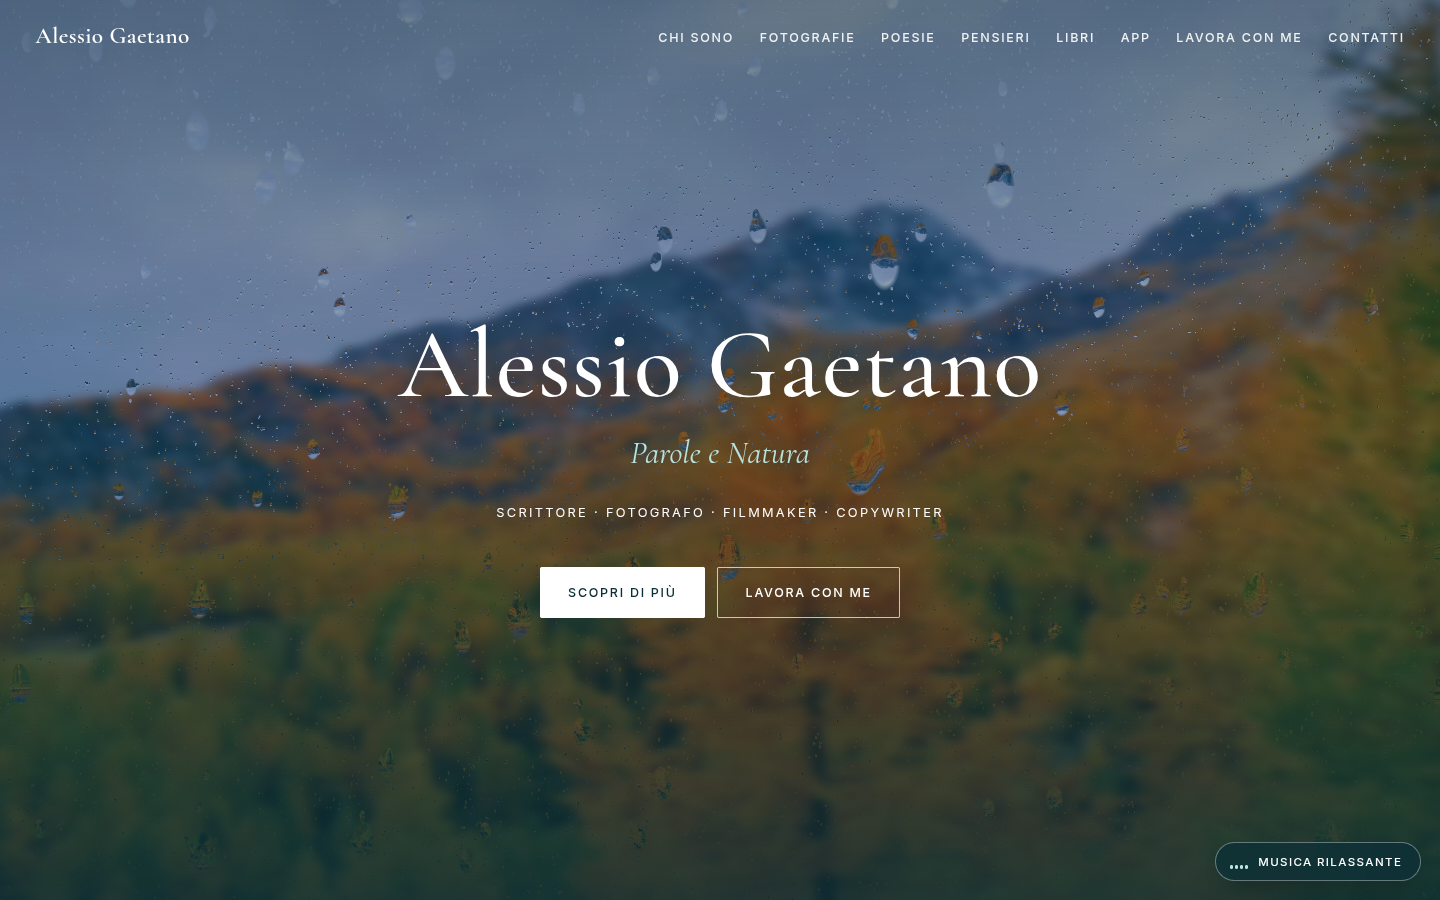
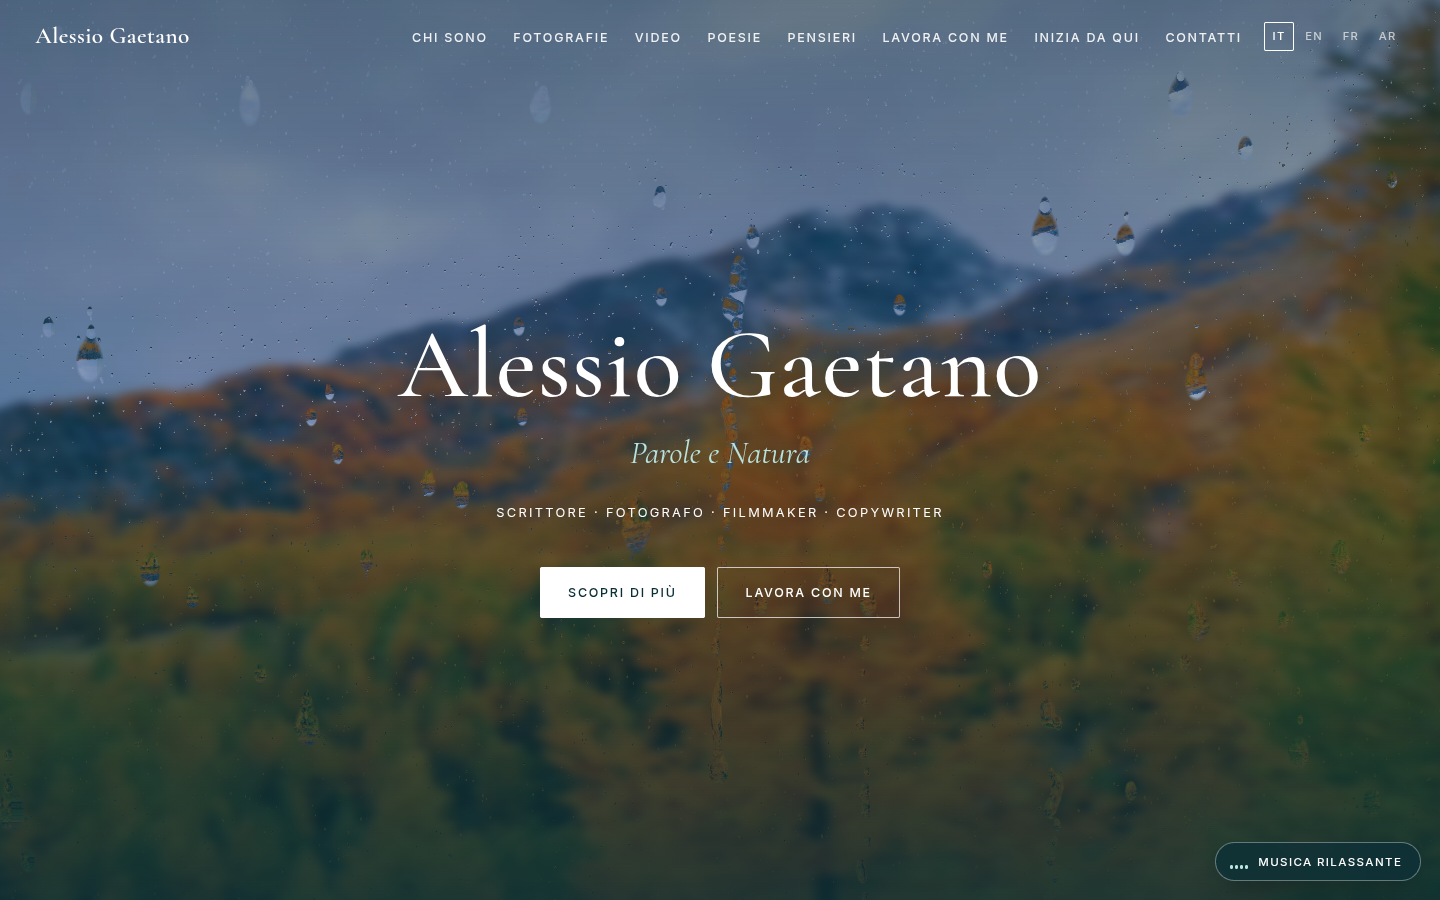
Google Search Console verification

diff --git a/ar/index.html b/ar/index.html
@@ -2,7 +2,7 @@
 <title>أليسيو غايتانو – كاتب ومصوّر وصانع أفلام وكاتب إعلانات</title><meta name="description" content="أليسيو غايتانو: كلمات وطبيعة. كاتب ومصوّر وصانع أفلام وكاتب إعلانات. صور وفيديوهات وقصائد وأفكار وكتب ونصائح وتواصل.">
 <link rel="canonical" href="https://alegauren-creator.github.io/sito/ar/"><link rel="alternate" hreflang="it" href="https://alegauren-creator.github.io/sito/"><link rel="alternate" hreflang="en" href="https://alegauren-creator.github.io/sito/en/"><link rel="alternate" hreflang="fr" href="https://alegauren-creator.github.io/sito/fr/"><link rel="alternate" hreflang="ar" href="https://alegauren-creator.github.io/sito/ar/"><link rel="alternate" hreflang="x-default" href="https://alegauren-creator.github.io/sito/"><link rel="icon" href="../favicon.svg" type="image/svg+xml">
 <meta property="og:type" content="website"><meta property="og:url" content="https://alegauren-creator.github.io/sito/ar/"><meta property="og:title" content="Alessio Gaetano – كلمات وطبيعة"><meta property="og:description" content="كاتب ومصوّر وصانع أفلام وكاتب إعلانات."><meta property="og:image" content="https://alegauren-creator.github.io/sito/og.jpg"><meta property="og:locale" content="ar_AR"><meta name="twitter:card" content="summary_large_image">
-<!-- google-site-verification: incolla qui il meta tag di Google Search Console -->
+<meta name="google-site-verification" content="P_0KU-tFi58tV74n-cSzLczwnLbSxpIiYvnmhs9SNok" />
 <script type="application/ld+json">{"@context": "https://schema.org", "@type": "Person", "name": "Alessio Gaetano", "jobTitle": "كاتب ومصوّر وصانع أفلام وكاتب إعلانات", "url": "https://alegauren-creator.github.io/sito/ar/", "image": "https://alegauren-creator.github.io/sito/og.jpg", "email": "mailto:aleg.auren@gmail.com", "sameAs": ["https://www.tiktok.com/@a_g.auren", "https://ko-fi.com/alessio_g"], "knowsLanguage": ["it", "en", "fr"]}</script><script type="application/ld+json">{"@context": "https://schema.org", "@type": "WebSite", "name": "Alessio Gaetano – كلمات وطبيعة", "url": "https://alegauren-creator.github.io/sito/ar/", "inLanguage": "ar"}</script>
 <link rel="stylesheet" href="../fonts/fonts.css"><link rel="stylesheet" href="../style.css?v=7">
 <script>window.SITE_BASE="../";window.SITE_LANG="ar";</script></head><body>

diff --git a/fr/index.html b/fr/index.html
@@ -2,7 +2,7 @@
 <title>Alessio Gaetano – Écrivain, photographe, vidéaste et rédacteur</title><meta name="description" content="Alessio Gaetano : Mots et Nature. Écrivain, photographe, vidéaste et rédacteur. Photographies, vidéos, poèmes, pensées, livres, conseils et contacts.">
 <link rel="canonical" href="https://alegauren-creator.github.io/sito/fr/"><link rel="alternate" hreflang="it" href="https://alegauren-creator.github.io/sito/"><link rel="alternate" hreflang="en" href="https://alegauren-creator.github.io/sito/en/"><link rel="alternate" hreflang="fr" href="https://alegauren-creator.github.io/sito/fr/"><link rel="alternate" hreflang="ar" href="https://alegauren-creator.github.io/sito/ar/"><link rel="alternate" hreflang="x-default" href="https://alegauren-creator.github.io/sito/"><link rel="icon" href="../favicon.svg" type="image/svg+xml">
 <meta property="og:type" content="website"><meta property="og:url" content="https://alegauren-creator.github.io/sito/fr/"><meta property="og:title" content="Alessio Gaetano – Mots et Nature"><meta property="og:description" content="Écrivain, photographe, vidéaste et rédacteur."><meta property="og:image" content="https://alegauren-creator.github.io/sito/og.jpg"><meta property="og:locale" content="fr_FR"><meta name="twitter:card" content="summary_large_image">
-<!-- google-site-verification: incolla qui il meta tag di Google Search Console -->
+<meta name="google-site-verification" content="P_0KU-tFi58tV74n-cSzLczwnLbSxpIiYvnmhs9SNok" />
 <script type="application/ld+json">{"@context": "https://schema.org", "@type": "Person", "name": "Alessio Gaetano", "jobTitle": "Écrivain, photographe, vidéaste et rédacteur", "url": "https://alegauren-creator.github.io/sito/fr/", "image": "https://alegauren-creator.github.io/sito/og.jpg", "email": "mailto:aleg.auren@gmail.com", "sameAs": ["https://www.tiktok.com/@a_g.auren", "https://ko-fi.com/alessio_g"], "knowsLanguage": ["it", "en", "fr"]}</script><script type="application/ld+json">{"@context": "https://schema.org", "@type": "WebSite", "name": "Alessio Gaetano – Mots et Nature", "url": "https://alegauren-creator.github.io/sito/fr/", "inLanguage": "fr"}</script>
 <link rel="stylesheet" href="../fonts/fonts.css"><link rel="stylesheet" href="../style.css?v=7">
 <script>window.SITE_BASE="../";window.SITE_LANG="fr";</script></head><body>

diff --git a/en/index.html b/en/index.html
@@ -2,7 +2,7 @@
 <title>Alessio Gaetano – Writer, photographer, filmmaker and copywriter</title><meta name="description" content="Alessio Gaetano: Words and Nature. Writer, photographer, filmmaker and copywriter. Photographs, videos, poems, thoughts, books, advice and contacts.">
 <link rel="canonical" href="https://alegauren-creator.github.io/sito/en/"><link rel="alternate" hreflang="it" href="https://alegauren-creator.github.io/sito/"><link rel="alternate" hreflang="en" href="https://alegauren-creator.github.io/sito/en/"><link rel="alternate" hreflang="fr" href="https://alegauren-creator.github.io/sito/fr/"><link rel="alternate" hreflang="ar" href="https://alegauren-creator.github.io/sito/ar/"><link rel="alternate" hreflang="x-default" href="https://alegauren-creator.github.io/sito/"><link rel="icon" href="../favicon.svg" type="image/svg+xml">
 <meta property="og:type" content="website"><meta property="og:url" content="https://alegauren-creator.github.io/sito/en/"><meta property="og:title" content="Alessio Gaetano – Words and Nature"><meta property="og:description" content="Writer, photographer, filmmaker and copywriter."><meta property="og:image" content="https://alegauren-creator.github.io/sito/og.jpg"><meta property="og:locale" content="en_US"><meta name="twitter:card" content="summary_large_image">
-<!-- google-site-verification: incolla qui il meta tag di Google Search Console -->
+<meta name="google-site-verification" content="P_0KU-tFi58tV74n-cSzLczwnLbSxpIiYvnmhs9SNok" />
 <script type="application/ld+json">{"@context": "https://schema.org", "@type": "Person", "name": "Alessio Gaetano", "jobTitle": "Writer, photographer, filmmaker and copywriter", "url": "https://alegauren-creator.github.io/sito/en/", "image": "https://alegauren-creator.github.io/sito/og.jpg", "email": "mailto:aleg.auren@gmail.com", "sameAs": ["https://www.tiktok.com/@a_g.auren", "https://ko-fi.com/alessio_g"], "knowsLanguage": ["it", "en", "fr"]}</script><script type="application/ld+json">{"@context": "https://schema.org", "@type": "WebSite", "name": "Alessio Gaetano – Words and Nature", "url": "https://alegauren-creator.github.io/sito/en/", "inLanguage": "en"}</script>
 <link rel="stylesheet" href="../fonts/fonts.css"><link rel="stylesheet" href="../style.css?v=7">
 <script>window.SITE_BASE="../";window.SITE_LANG="en";</script></head><body>

diff --git a/index.html b/index.html
@@ -2,7 +2,7 @@
 <title>Alessio Gaetano – Scrittore, fotografo, filmmaker e copywriter</title><meta name="description" content="Alessio Gaetano: Parole e Natura. Scrittore, fotografo, filmmaker e copywriter. Fotografie, video, poesie, pensieri, libri, consigli e contatti.">
 <link rel="canonical" href="https://alegauren-creator.github.io/sito/"><link rel="alternate" hreflang="it" href="https://alegauren-creator.github.io/sito/"><link rel="alternate" hreflang="en" href="https://alegauren-creator.github.io/sito/en/"><link rel="alternate" hreflang="fr" href="https://alegauren-creator.github.io/sito/fr/"><link rel="alternate" hreflang="ar" href="https://alegauren-creator.github.io/sito/ar/"><link rel="alternate" hreflang="x-default" href="https://alegauren-creator.github.io/sito/"><link rel="icon" href="favicon.svg" type="image/svg+xml">
 <meta property="og:type" content="website"><meta property="og:url" content="https://alegauren-creator.github.io/sito/"><meta property="og:title" content="Alessio Gaetano – Parole e Natura"><meta property="og:description" content="Scrittore, fotografo, filmmaker e copywriter."><meta property="og:image" content="https://alegauren-creator.github.io/sito/og.jpg"><meta property="og:locale" content="it_IT"><meta name="twitter:card" content="summary_large_image">
-<!-- google-site-verification: incolla qui il meta tag di Google Search Console -->
+<meta name="google-site-verification" content="P_0KU-tFi58tV74n-cSzLczwnLbSxpIiYvnmhs9SNok" />
 <script type="application/ld+json">{"@context": "https://schema.org", "@type": "Person", "name": "Alessio Gaetano", "jobTitle": "Scrittore, fotografo, filmmaker e copywriter", "url": "https://alegauren-creator.github.io/sito/", "image": "https://alegauren-creator.github.io/sito/og.jpg", "email": "mailto:aleg.auren@gmail.com", "sameAs": ["https://www.tiktok.com/@a_g.auren", "https://ko-fi.com/alessio_g"], "knowsLanguage": ["it", "en", "fr"]}</script><script type="application/ld+json">{"@context": "https://schema.org", "@type": "WebSite", "name": "Alessio Gaetano – Parole e Natura", "url": "https://alegauren-creator.github.io/sito/", "inLanguage": "it"}</script>
 <link rel="stylesheet" href="fonts/fonts.css"><link rel="stylesheet" href="style.css?v=7">
 <script>window.SITE_BASE="";window.SITE_LANG="it";</script></head><body>

diff --git a/build/build.py b/build/build.py
@@ -36,7 +36,7 @@ def page(L):
 <title>{E(t['title'])}</title><meta name="description" content="{E(t['desc'])}">
 <link rel="canonical" href="{url}">{alt}<link rel="icon" href="{R}favicon.svg" type="image/svg+xml">
 <meta property="og:type" content="website"><meta property="og:url" content="{url}"><meta property="og:title" content="Alessio Gaetano – {E(t['sub'])}"><meta property="og:description" content="{E(t['ogdesc'])}"><meta property="og:image" content="{SITE}og.jpg"><meta property="og:locale" content="{dict(it='it_IT',en='en_US',fr='fr_FR',ar='ar_AR')[L]}"><meta name="twitter:card" content="summary_large_image">
-<!-- google-site-verification: incolla qui il meta tag di Google Search Console -->
+<meta name="google-site-verification" content="P_0KU-tFi58tV74n-cSzLczwnLbSxpIiYvnmhs9SNok" />
 <script type="application/ld+json">{json.dumps(ld,ensure_ascii=False)}</script><script type="application/ld+json">{json.dumps(ws,ensure_ascii=False)}</script>
 <link rel="stylesheet" href="{R}fonts/fonts.css"><link rel="stylesheet" href="{R}style.css?v=7">
 <script>window.SITE_BASE="{R}";window.SITE_LANG="{L}";</script></head><body>
